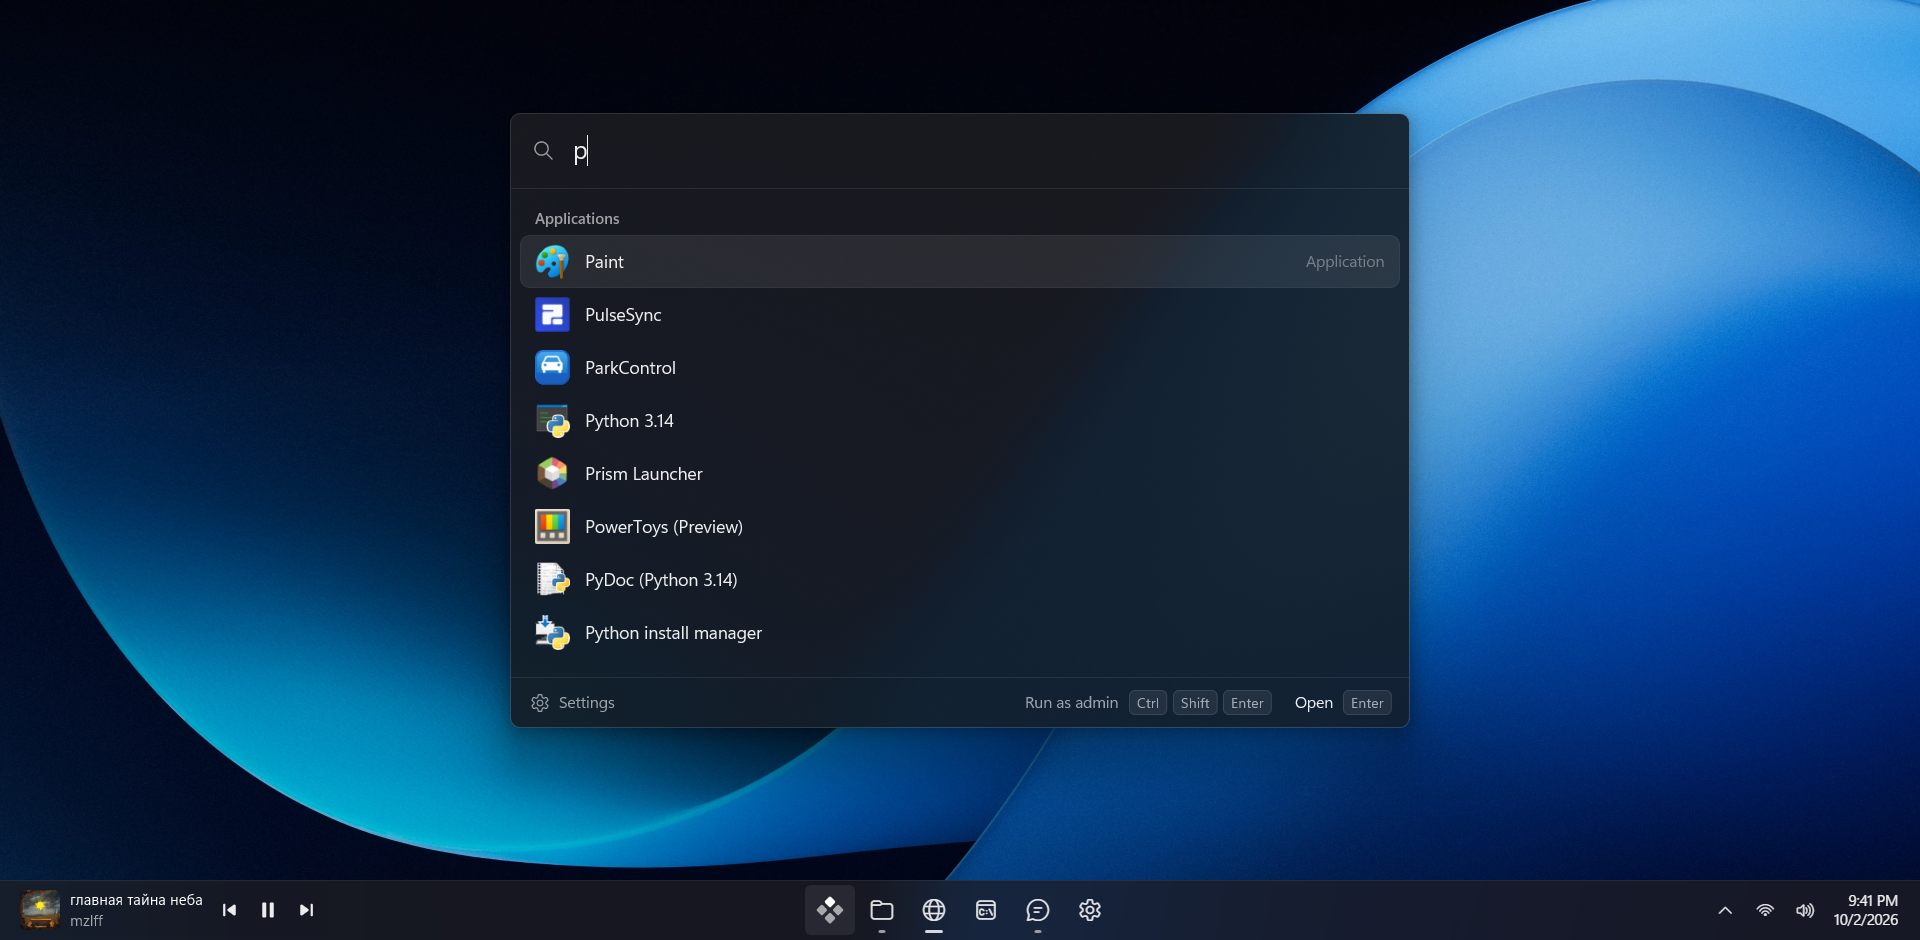
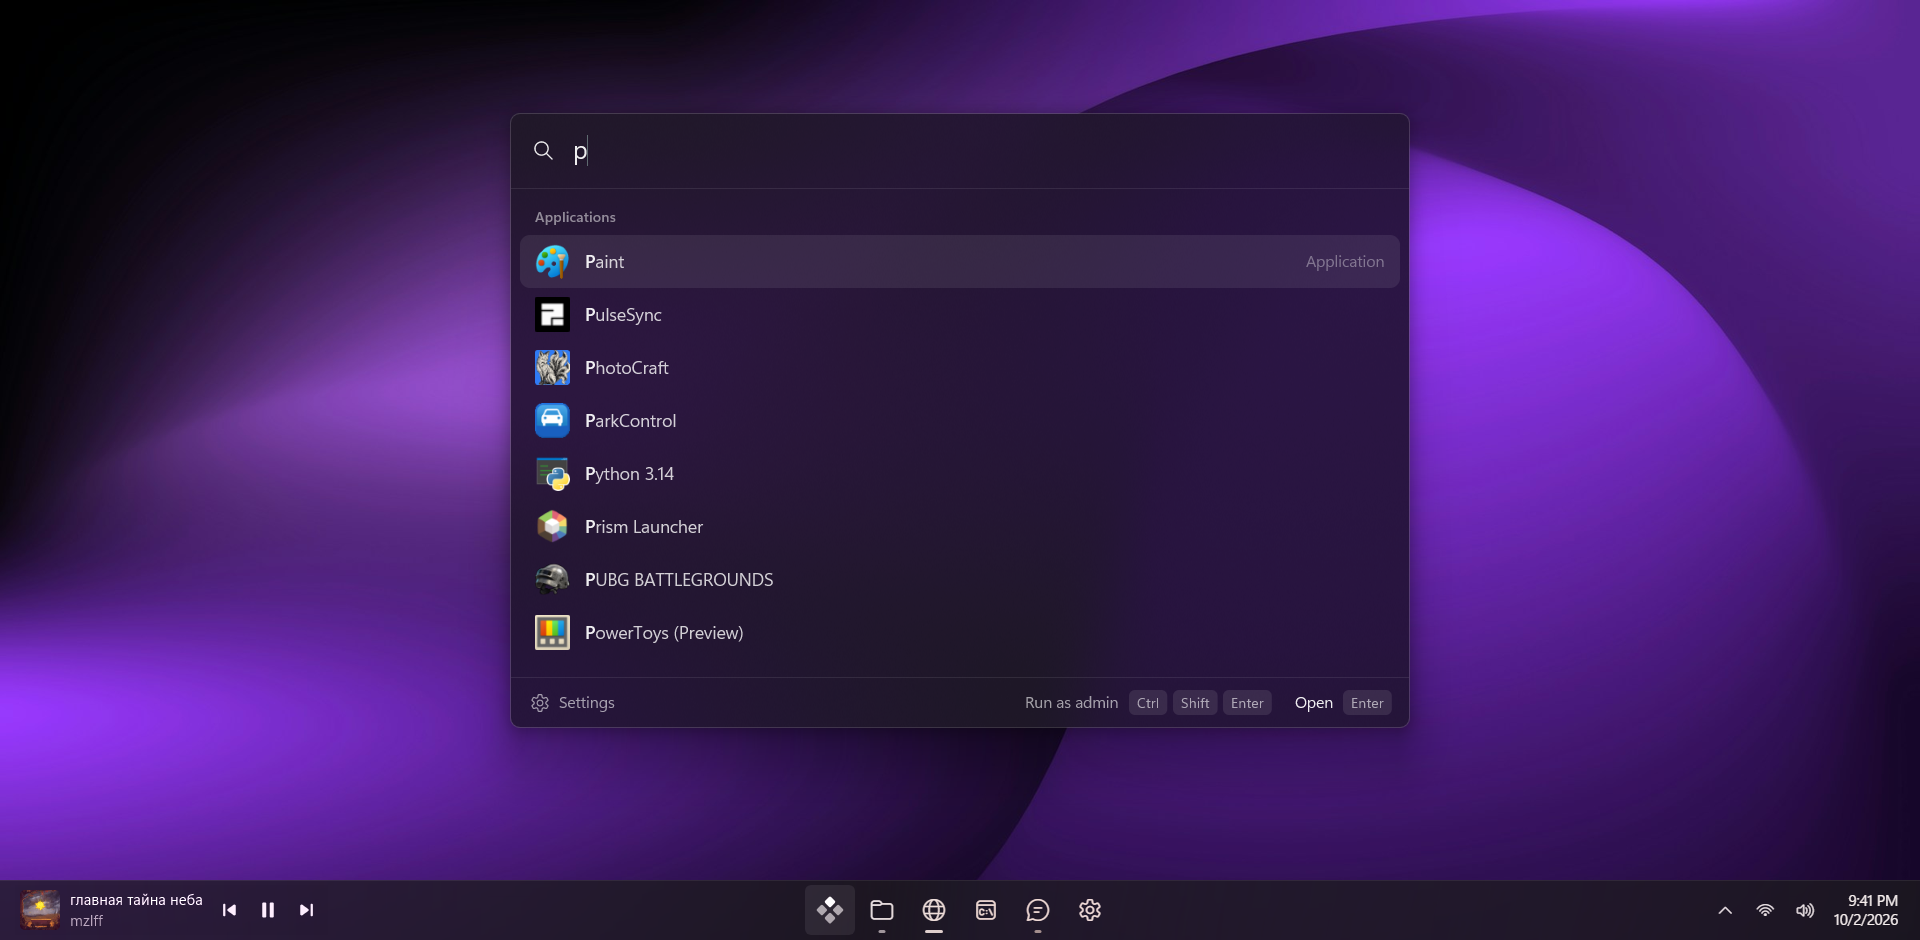
Changelog: - Version 2.0.0 - New README with style previews

diff --git a/res/version.h b/res/version.h
@@ -1,5 +1,5 @@
 // The one place with the version: the exe resource, the About page and the update check use it.
-#define ML_VER_MAJOR 1
-#define ML_VER_MINOR 3
-#define ML_VER_PATCH 1
-#define ML_VER_STR "1.3.1"
+#define ML_VER_MAJOR 2
+#define ML_VER_MINOR 0
+#define ML_VER_PATCH 0
+#define ML_VER_STR "2.0.0"

diff --git a/README.md b/README.md
@@ -2,63 +2,44 @@
   <img src="docs/banner.png" alt="MixLauncher" width="860">
 </p>
 
-<h1 align="center">MixLauncher</h1>
+<h1 align="center"><img src="docs/logo.png" alt="" width="34" align="top"> MixLauncher</h1>
 
 <p align="center">
-  A fast launcher for Windows 10/11.
+  A fast Start menu replacement for Windows 10 and 11.
 </p>
 
 <p align="center">
   <img src="https://img.shields.io/badge/Windows-10%20%7C%2011-0b0b0d?style=flat-square" alt="Windows 10 | 11">
-  <img src="https://img.shields.io/badge/size-~600%20KB-0b0b0d?style=flat-square" alt="~600 KB">
+  <img src="https://img.shields.io/badge/size-~800%20KB-0b0b0d?style=flat-square" alt="~800 KB">
+  <img src="https://img.shields.io/badge/RAM-~30%20MB-0b0b0d?style=flat-square" alt="~30 MB RAM">
   <img src="https://img.shields.io/badge/no%20telemetry-0b0b0d?style=flat-square" alt="No telemetry">
 </p>
 
 ## Features
 
-- **Start menu replacement.** Opens with `Win` or any other key, even over games.
-- **Apps.** Everything from the Start menu and the Microsoft Store. Frequently used ones rank higher.
-- **Files.** Searches the whole disk through a bundled [Everything](https://www.voidtools.com/). If you already run your own Everything, that one is used.
-- **Wrong keyboard layout.** `rfkr` finds Калькулятор, `сщву` finds VS Code.
-- **English names.** `notepad`, `cmd`, `calc` find Notepad, Command Prompt and Calculator on a localized Windows.
-- **Tags.** Right-click anything and add your own tags; typing a tag finds it, even by the first letters or in the wrong layout.
-- **Commands.** Lock, sleep, restart, shut down, sign out, recycle bin, installed apps (uninstall programs). Sleep, restart, shut down and sign out ask to press Enter again.
-- **Start button.** Custom icon on the Windows 11 Start button; clicking it opens the launcher.
-- **Now playing.** Cover art, title and playback controls for any player, right on the taskbar.
-- **Styles.** Standard, Raycast, Fluent and Compact lists, and Windows 11: the Start menu look with pinned apps, recommended (most launched) apps, all apps, and account and power buttons; Windows 10: the Windows 10 Start menu with resizable tiles you pin with a right click. Matches are highlighted in bold.
-- **Position.** In the center of the screen, or at the bottom like Start (left or center), sliding up from under the taskbar. The Windows 11 and Windows 10 styles are always at the bottom.
-- **Updates.** When a new version is released on GitHub, an "Update" button appears in the launcher. The check can be turned off.
+- **Lightweight and very fast.** One native ~800 KB app, no frameworks. Opens instantly and runs lighter and faster than the regular Start menu.
+- **Apps and files.** Apps from Start and the Microsoft Store, files from the whole disk through the bundled [Everything](https://www.voidtools.com/).
+- **Smart search.** Finds apps typed in the wrong layout and by English names on a localized Windows, plus your own tags.
+- **Start menu looks.** Windows 11 and Windows 10 with tiles, or a compact list: Standard, Raycast, Fluent, Compact.
+- **Taskbar.** Opens with `Win` or the Start button; a now playing widget with playback controls.
 - **No AI, no telemetry.**
+
+## Styles
+
+<table>
+  <tr>
+    <td align="center"><img src="docs/styles/windows11.png" alt="Windows 11" width="420"><br>Windows 11</td>
+    <td align="center"><img src="docs/styles/windows10.png" alt="Windows 10" width="420"><br>Windows 10</td>
+  </tr>
+  <tr>
+    <td align="center"><img src="docs/styles/raycast.png" alt="Raycast" width="420"><br>Raycast</td>
+    <td align="center"><img src="docs/styles/fluent.png" alt="Fluent" width="420"><br>Fluent</td>
+  </tr>
+</table>
 
 ## Installation
 
 Download from the [Releases](https://github.com/mel1x/mixlauncher/releases) page:
 
 - `MixLauncher-Setup.exe` - installer, Everything included.
-- `MixLauncher-portable.exe` - no installation; file search requires Everything to be installed.
-
-## Hotkeys
-
-| Keys | Action |
-|---|---|
-| `Win` | open or close |
-| `↑` `↓`, `PgUp` `PgDn` | select |
-| `Tab` | next section |
-| `Enter` | open |
-| `Ctrl+Enter` | show in folder |
-| `Ctrl+Shift+Enter` | run as administrator |
-| `Alt+Enter` | properties |
-| `Ctrl+C` | copy path |
-| `Esc` | clear the query, press again to close |
-| `Ctrl+,` | settings |
-
-## Settings
-
-`Ctrl+,`, the button in the launcher's corner, or the tray icon menu. Stored in `%LOCALAPPDATA%\MixLauncher\config.ini`.
-
-## Building
-
-Requires MinGW-w64 (MSYS2) or Visual Studio Build Tools; the installer needs [Inno Setup 7](https://jrsoftware.org/isdl.php).
-
-- `build.bat` - builds `build\mixlauncher.exe`; `build.bat dev` - without the administrator prompt.
-- `release.bat` - builds the launcher and `build\MixLauncher-Setup.exe`. The version is taken from `res\version.h`.
+- `MixLauncher-portable.exe` - no installation; file search needs Everything installed.
